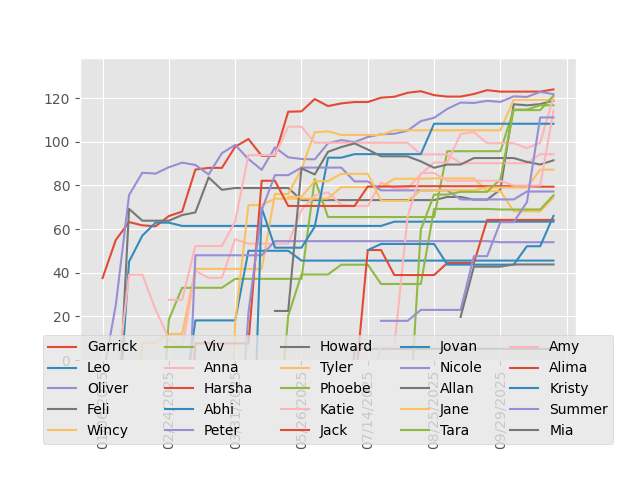
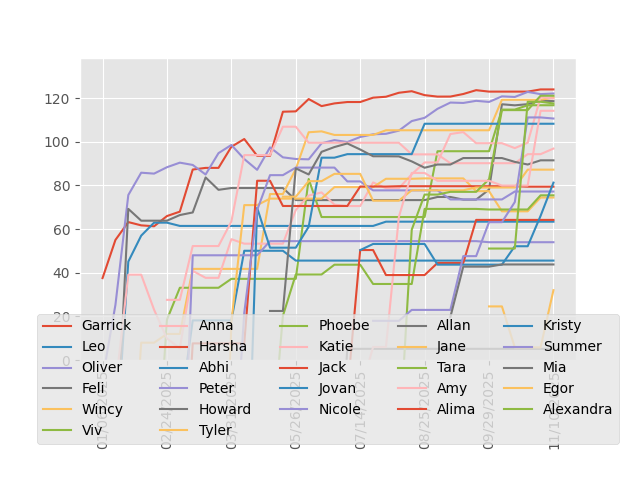
update rankings

Changed region(s): [[0.0625, 0.1562, 0.9688, 0.9375]]

diff --git a/README.md b/README.md
@@ -7,37 +7,38 @@
 | Player | ELO | Wins | Losses | Win % |
 | --- | --- | --- | --- | --- |
 | Garrick | 124.03 | 53 | 46 | 54% |
-| Oliver | 121.87 | 61 | 70 | 47% |
+| Oliver | 122.16 | 63 | 71 | 47% |
 | Tara | 121.13 | 9 | 17 | 35% |
-| Anna | 120.48 | 31 | 32 | 49% |
-| Wincy | 119.28 | 16 | 15 | 52% |
-| Feli | 118.91 | 17 | 37 | 31% |
-| Alexandra(Summer) | 118.38 | 5 | 2 | 71% |
+| Wincy | 120.29 | 19 | 16 | 54% |
+| Anna | 119.87 | 32 | 34 | 48% |
+| Feli | 118.66 | 18 | 39 | 32% |
 | Jacomo(Dorine) | 118.02 | 1 | 2 | 33% |
+| Alexandra | 117.60 | 6 | 4 | 60% |
 | Viv | 116.78 | 14 | 16 | 47% |
 | Amy | 114.24 | 8 | 17 | 32% |
 | Dorine | 112.15 | 2 | 2 | 50% |
 | Kenny | 111.88 | 2 | 1 | 67% |
-| Summer | 111.19 | 10 | 8 | 56% |
+| Summer | 110.69 | 11 | 10 | 52% |
 | Jovan | 108.30 | 5 | 7 | 42% |
 | Rachel | 105.59 | 3 | 2 | 60% |
-| Katie | 94.35 | 15 | 18 | 45% |
+| Katie | 96.91 | 16 | 21 | 43% |
 | Allan | 91.53 | 14 | 32 | 30% |
 | Jane | 87.25 | 8 | 15 | 35% |
 | Nicole(Tyler) | 83.91 | 3 | 2 | 60% |
 | Heidi | 82.89 | 2 | 5 | 29% |
+| Kristy | 81.30 | 8 | 10 | 44% |
 | Jack | 79.45 | 6 | 16 | 27% |
 | Nicole | 77.23 | 11 | 19 | 37% |
 | Phoebe | 75.49 | 6 | 10 | 38% |
 | Tyler | 74.48 | 12 | 12 | 50% |
 | Serene | 69.04 | 1 | 3 | 25% |
 | Susan | 67.45 | 2 | 4 | 33% |
-| Kristy | 66.07 | 6 | 8 | 43% |
 | Alima | 64.22 | 3 | 16 | 16% |
 | Leo | 63.41 | 7 | 13 | 35% |
 | Ruby | 59.81 | 2 | 6 | 25% |
 | Monica | 59.62 | 3 | 1 | 75% |
 | Rebecca | 57.18 | 4 | 3 | 57% |
+| Claudia(Alexandra) | 55.28 | 1 | 2 | 33% |
 | Peter | 53.99 | 4 | 7 | 36% |
 | Sheldon(Ruby) | 51.72 | 3 | 0 | 100% |
 | Narin | 51.36 | 3 | 5 | 38% |
@@ -50,13 +51,13 @@
 | Angela(Oliver) | 39.28 | 1 | 1 | 50% |
 | Lil Su | 35.79 | 0 | 4 | 0% |
 | Vivian | 33.83 | 3 | 0 | 100% |
+| Egor | 32.01 | 2 | 8 | 20% |
 | Angelica(Feli) | 25.27 | 2 | 1 | 67% |
 | Alistair | 23.66 | 2 | 1 | 67% |
 | Kuki | 22.28 | 0 | 5 | 0% |
 | Bonnie | 20.25 | 1 | 2 | 33% |
 | Babs | 17.96 | 3 | 1 | 75% |
 | Simon | 7.99 | 0 | 1 | 0% |
-| Egor(Feli) | 5.78 | 2 | 4 | 33% |
 | Howard | 5.12 | 5 | 5 | 50% |
 | Amber(Summer) | -8.16 | 0 | 1 | 0% |
 | Jordan | -23.71 | 2 | 1 | 67% |
@@ -88,7 +89,7 @@
 | Tara | 97.44 | 3 | 2 | 60% |
 | Garrick | 97.15 | 8 | 7 | 53% |
 | Anna | 96.28 | 1 | 5 | 17% |
-| Alexandra(Summer) | 94.35 | 1 | 0 | 100% |
+| Alexandra | 94.35 | 1 | 0 | 100% |
 | Jacomo(Dorine) | 94.35 | 1 | 0 | 100% |
 | Oliver | 93.69 | 9 | 9 | 50% |
 | Feli | 92.05 | 2 | 7 | 22% |
@@ -135,7 +136,7 @@
 | Abhi | -65.21 | 3 | 4 | 43% |
 | Sheldon(Ruby) | -66.83 | 1 | 0 | 100% |
 | Heidi | -68.32 | 1 | 2 | 33% |
-| Alexandra(Summer) | -69.38 | 1 | 0 | 100% |
+| Alexandra | -69.38 | 1 | 0 | 100% |
 | Mia | -74.79 | 1 | 1 | 50% |
 | Amy | -75.19 | 3 | 3 | 50% |
 | Vittoria | -78.74 | 1 | 1 | 50% |
@@ -168,7 +169,7 @@
 | Ruby | -129.25 | 1 | 2 | 33% |
 | Susan | -129.47 | 0 | 1 | 0% |
 | Eric | -131.62 | 0 | 2 | 0% |
-| Egor(Feli) | -135.62 | 0 | 3 | 0% |
+| Egor | -135.62 | 0 | 3 | 0% |
 | Feli | -147.15 | 3 | 10 | 23% |
 
 
@@ -176,13 +177,14 @@
 
 | Player | ELO | Wins | Losses | Win % |
 | --- | --- | --- | --- | --- |
-| Wincy | 57.10 | 6 | 2 | 75% |
+| Wincy | 103.96 | 8 | 2 | 80% |
 | Garrick | 32.42 | 15 | 10 | 60% |
-| Summer | 0.13 | 4 | 1 | 80% |
-| Katie | -11.06 | 4 | 1 | 80% |
+| Anna | -10.65 | 11 | 9 | 55% |
 | Tyler | -14.16 | 8 | 4 | 67% |
+| Kristy | -16.40 | 2 | 0 | 100% |
+| Katie | -19.89 | 5 | 2 | 71% |
 | Rebecca | -24.89 | 4 | 1 | 80% |
-| Anna | -25.68 | 10 | 8 | 56% |
+| Summer | -32.60 | 4 | 3 | 57% |
 | Jacky(Feli) | -33.72 | 2 | 0 | 100% |
 | Nicole(Tyler) | -35.39 | 2 | 0 | 100% |
 | Rachel | -35.39 | 2 | 0 | 100% |
@@ -191,23 +193,21 @@
 | Allan | -42.72 | 5 | 5 | 50% |
 | Angelica(Feli) | -49.59 | 1 | 0 | 100% |
 | Jordan | -49.59 | 1 | 0 | 100% |
+| Oliver | -50.20 | 14 | 17 | 45% |
 | Sheldon(Ruby) | -50.56 | 2 | 0 | 100% |
 | Alistair | -50.56 | 2 | 0 | 100% |
 | Babs | -54.19 | 2 | 0 | 100% |
-| Alexandra(Summer) | -56.55 | 1 | 0 | 100% |
 | Viv | -56.58 | 2 | 3 | 40% |
+| Feli | -56.76 | 6 | 10 | 38% |
 | Narin | -62.66 | 1 | 0 | 100% |
 | David(Aus) | -67.38 | 1 | 1 | 50% |
 | Kevin(Aus) | -67.38 | 1 | 1 | 50% |
 | Myron | -68.25 | 1 | 1 | 50% |
 | Abhi | -70.08 | 3 | 4 | 43% |
-| Oliver | -71.64 | 12 | 17 | 41% |
 | Bonnie | -71.66 | 1 | 0 | 100% |
-| Feli | -73.98 | 5 | 9 | 36% |
 | Mandy | -75.74 | 1 | 1 | 50% |
 | Vittoria | -75.74 | 1 | 1 | 50% |
 | Alina(Feli) | -75.89 | 1 | 1 | 50% |
-| Egor(Feli) | -75.89 | 1 | 1 | 50% |
 | Peter | -76.69 | 2 | 3 | 40% |
 | Monica | -77.41 | 1 | 1 | 50% |
 | Phoebe | -82.34 | 3 | 5 | 38% |
@@ -216,9 +216,12 @@
 | Dev | -90.49 | 1 | 1 | 50% |
 | Jack | -97.05 | 1 | 2 | 33% |
 | Jane | -98.59 | 3 | 5 | 38% |
+| Alexandra | -100.38 | 1 | 2 | 33% |
 | Gloria | -103.20 | 1 | 1 | 50% |
 | Mia | -105.76 | 2 | 2 | 50% |
 | LeoPan | -108.62 | 1 | 1 | 50% |
+| Claudia(Alexandra) | -110.43 | 1 | 1 | 50% |
+| Egor | -116.66 | 1 | 3 | 25% |
 | Harsha | -118.33 | 2 | 5 | 29% |
 | Lil Su | -124.27 | 0 | 2 | 0% |
 | Ruby | -124.27 | 0 | 2 | 0% |
@@ -286,7 +289,7 @@
 | Anna | -77.07 | 2 | 1 | 67% |
 | Oliver | -77.57 | 2 | 2 | 50% |
 | Garrick | -81.76 | 1 | 1 | 50% |
-| Alexandra(Summer) | -86.33 | 1 | 1 | 50% |
+| Alexandra | -86.33 | 1 | 1 | 50% |
 | Katie | -86.33 | 1 | 1 | 50% |
 | Leo | -92.11 | 1 | 1 | 50% |
 | Summer | -94.76 | 1 | 1 | 50% |
@@ -304,12 +307,14 @@
 
 | Player | ELO | Wins | Losses | Win % |
 | --- | --- | --- | --- | --- |
-| Oliver | 61.79 | 3 | 1 | 75% |
+| Oliver | 56.38 | 3 | 2 | 60% |
+| Wincy | 37.43 | 1 | 2 | 33% |
 | Garrick | 29.26 | 1 | 2 | 33% |
+| Feli | 27.14 | 0 | 4 | 0% |
 | Vittoria | 26.14 | 1 | 1 | 50% |
-| Feli | 17.01 | 0 | 3 | 0% |
-| Katie | 9.00 | 0 | 2 | 0% |
-| Wincy | 4.74 | 0 | 2 | 0% |
+| Katie | 22.39 | 0 | 3 | 0% |
+| Kristy | -10.14 | 0 | 1 | 0% |
+| Egor | -10.14 | 0 | 1 | 0% |
 | Kristy(Katie) | -10.25 | 0 | 1 | 0% |
 | Anna | -10.25 | 0 | 1 | 0% |
 | Jack | -10.25 | 0 | 1 | 0% |
@@ -355,7 +360,7 @@
 | Kuki | -27.51 | 0 | 1 | 0% |
 | Tyler | -37.19 | 0 | 3 | 0% |
 | Alistair | -43.28 | 0 | 1 | 0% |
-| Alexandra(Summer) | -94.69 | 0 | 1 | 0% |
+| Alexandra | -94.69 | 0 | 1 | 0% |
 | Jonathan(Oliver) | -150.50 | 0 | 1 | 0% |
 | Kristy | -159.88 | 0 | 1 | 0% |
 | Summer | -164.51 | 0 | 1 | 0% |
@@ -388,13 +393,19 @@
 
 | Player | ELO | Wins | Losses | Win % |
 | --- | --- | --- | --- | --- |
-| Katie | 40.25 | 2 | 0 | 100% |
+| Katie | 38.03 | 2 | 1 | 67% |
+| Summer | 23.85 | 1 | 0 | 100% |
+| Alexandra | 23.85 | 1 | 0 | 100% |
 | Garrick | 20.94 | 1 | 1 | 50% |
 | Tyler | 13.33 | 1 | 0 | 100% |
+| Kristy | 13.03 | 1 | 2 | 33% |
 | Oliver | 7.21 | 1 | 3 | 25% |
 | Jack | -1.33 | 1 | 2 | 33% |
-| Kristy | -8.16 | 1 | 1 | 50% |
 | Alima | -10.46 | 1 | 1 | 50% |
+| Claudia(Alexandra) | -11.08 | 0 | 1 | 0% |
+| Anna | -11.08 | 0 | 1 | 0% |
+| Wincy | -11.08 | 0 | 1 | 0% |
+| Egor | -11.08 | 0 | 1 | 0% |
 | Kuki | -32.11 | 0 | 1 | 0% |
 | Nicole | -32.11 | 0 | 1 | 0% |
 | Abhi | -32.11 | 0 | 1 | 0% |
@@ -493,8 +504,8 @@
 | Amy | 15.65 | 1 | 0 | 100% |
 | Monica | 7.70 | 1 | 0 | 100% |
 | Summer | 6.77 | 1 | 1 | 50% |
-| Egor(Feli) | 4.25 | 1 | 0 | 100% |
-| Alexandra(Summer) | 4.25 | 1 | 0 | 100% |
+| Egor | 4.25 | 1 | 0 | 100% |
+| Alexandra | 4.25 | 1 | 0 | 100% |
 | Mia | -52.00 | 0 | 1 | 0% |
 | Phoebe | -53.17 | 0 | 2 | 0% |
 
